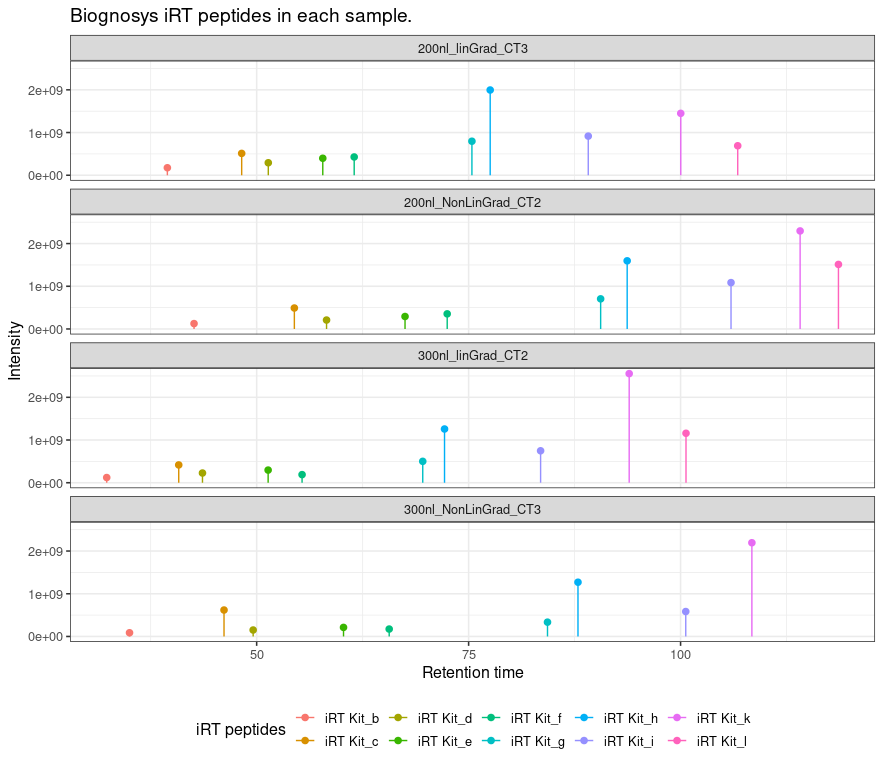
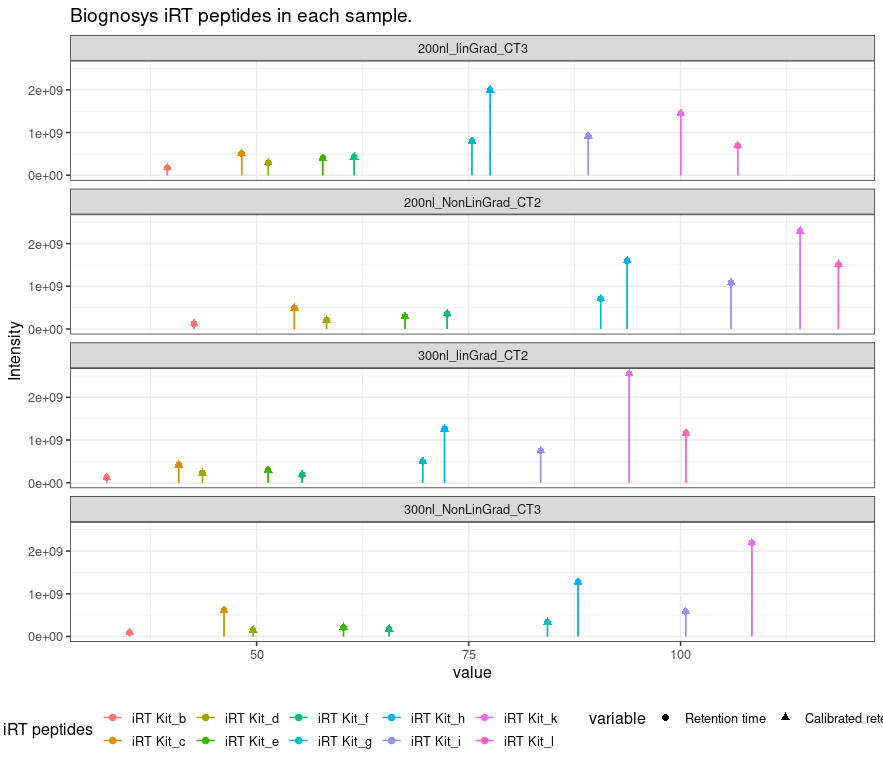
Protein Coverage Finished

Changed region(s): [[0.0, 0.8438, 0.8562, 0.9688], [0.9173, 0.9062, 1.0, 0.9375]]

diff --git a/README.md b/README.md
@@ -100,7 +100,7 @@ Path_iRT_run_with_iRT_peptides <- '/home/alvaro/Documents/MaxQuant/example3/'
 files_irt <- ReadDataFromDir(Path_iRT_run_with_iRT_peptides)
 
 evidence_irt <- files_irt[['evidence.txt']]
-PlotiRT(evidence_irt, show_calibrated_rt = FALSE)
+PlotiRT(evidence_irt, show_calibrated_rt = TRUE)
 ```
 
 <img src="man/figures/README-irt_peps1-1.png" width="100%" />
@@ -139,7 +139,7 @@ PlotTotalIonCurrent(msmsScans)
 <img src="man/figures/README-TotalIonCurrent-1.png" width="100%" />
 
 ``` r
-PlotProteinCoverage(peptides)
+PlotProteinCoverage(peptides, UniprotID = "Q9QXS1")
 ```
 
 <img src="man/figures/README-protein_degradation-1.png" width="100%" />
